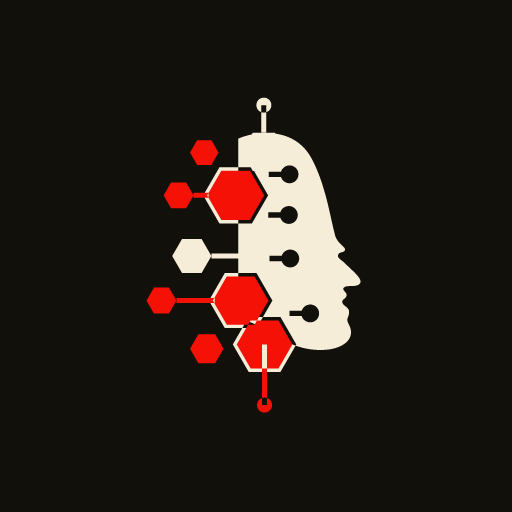
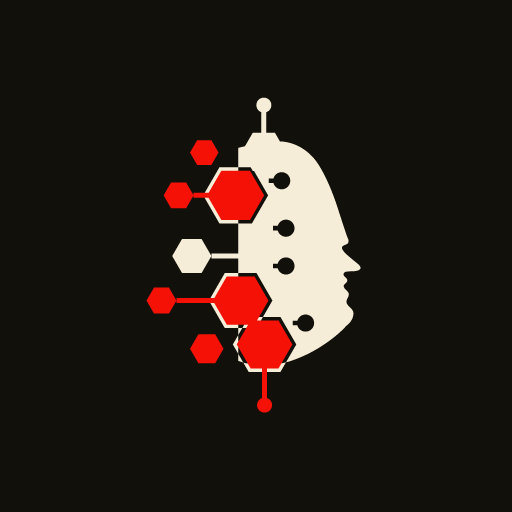
Publish site - host https://plus-magnificent-citizen-telescope.trycloudflare.com (2026-08-10T12:58:04Z)

diff --git a/app.html b/app.html
@@ -99,7 +99,7 @@ button { font-family: var(--body); cursor: pointer; }
   border-bottom: 1px solid var(--line);
 }
 /* The base wordmark stays block-level: other surfaces still render the
-   old three-piece 'Peer' markup, and a flex container splits it apart. The
+   old three-piece wordmark markup, and a flex container splits it apart. The
    insignia lockup applies only where the insignia markup exists (geek). */
 .wordmark { font-family: var(--display); font-weight: 700; text-transform: uppercase; font-size: 24px; margin: 0; letter-spacing: 0.04em; }
 .wordmark em { font-style: normal; color: var(--ember); }
@@ -1502,7 +1502,7 @@ button, .btn { touch-action: manipulation; }
     installPrompt = null;
     var c = document.querySelector('.a2hs');
     if (c) c.remove();
-    toast('Installed. Peer now opens full-screen from your home screen.');
+    toast('Installed. Ender Net now opens full-screen from your home screen.');
   });
 
   /**
@@ -1550,7 +1550,7 @@ button, .btn { touch-action: manipulation; }
         card.remove();
       } }));
       var card = h('div', { class: 'a2hs' },
-        h('b', { text: 'Install Peer on this ' + (/Android|iP(hone|od)/.test(ua) ? 'phone' : 'device') }),
+        h('b', { text: 'Install Ender Net on this ' + (/Android|iP(hone|od)/.test(ua) ? 'phone' : 'device') }),
         h('div', { text: body }),
         row);
       document.body.appendChild(card);
@@ -1904,16 +1904,17 @@ button, .btn { touch-action: manipulation; }
   /**
    * The mark, drawn inline rather than set as a CSS background image.
    *
-   * The face and the ink nodes are `currentColor`, so the logo follows the
-   * theme by itself — the insignia this replaced hard-coded its colours and
-   * needed a separate copy per theme block to stay visible.
+   * The head and the ink nodes are ONE nonzero path, so the crown node and its
+   * stem merge into the skull instead of sitting on top of it, and the ports
+   * are real holes rather than painted discs — which is what lets the same
+   * drawing sit on a light page, a dark page and a home screen. `currentColor`
+   * means it follows the theme; the insignia this replaced hard-coded its
+   * colours and needed a copy per theme block to stay visible.
    */
-  var MARK_FACE = 'M250 116C288 100 330 96 366 104C408 113 438 138 456 172C476 209 490 253 502 302C510 336 516 366 522 388C527 404 538 412 546 420C552 426 550 432 542 434C534 436 530 438 530 445C530 452 540 456 550 466C566 482 588 500 592 512C596 522 588 528 574 529C562 530 552 528 546 534C540 541 556 547 554 556C552 566 540 566 542 575C544 585 560 588 561 601C562 614 552 620 558 632C564 645 570 656 564 672C556 692 528 706 494 708C452 711 408 700 374 678C340 656 300 636 272 626L250 622ZM336.0 208.5L370.2 208.5L370.9 206.4L371.8 204.4L373.0 202.5L374.2 200.7L375.7 199.0L377.3 197.4L379.0 196.0L380.8 194.8L382.7 193.7L384.7 192.8L386.8 192.1L389.0 191.5L391.2 191.2L393.4 191.0L395.6 191.1L397.8 191.3L400.0 191.7L402.1 192.3L404.2 193.2L406.1 194.1L408.0 195.3L409.8 196.6L411.5 198.1L413.0 199.7L414.3 201.5L415.5 203.3L416.6 205.3L417.4 207.3L418.1 209.4L418.6 211.6L418.9 213.8L419.0 216.0L418.9 218.2L418.6 220.4L418.1 222.6L417.4 224.7L416.6 226.7L415.5 228.7L414.3 230.5L413.0 232.3L411.5 233.9L409.8 235.4L408.0 236.7L406.1 237.9L404.2 238.8L402.1 239.7L400.0 240.3L397.8 240.7L395.6 240.9L393.4 241.0L391.2 240.8L389.0 240.5L386.8 239.9L384.7 239.2L382.7 238.3L380.8 237.2L379.0 236.0L377.3 234.6L375.7 233.0L374.2 231.3L373.0 229.5L371.8 227.6L370.9 225.6L370.2 223.5L336.0 223.5ZM334.0 322.5L368.2 322.5L368.9 320.4L369.8 318.4L371.0 316.5L372.2 314.7L373.7 313.0L375.3 311.4L377.0 310.0L378.8 308.8L380.7 307.7L382.7 306.8L384.8 306.1L387.0 305.5L389.2 305.2L391.4 305.0L393.6 305.1L395.8 305.3L398.0 305.7L400.1 306.3L402.2 307.2L404.1 308.1L406.0 309.3L407.8 310.6L409.5 312.1L411.0 313.7L412.3 315.5L413.5 317.3L414.6 319.3L415.4 321.3L416.1 323.4L416.6 325.6L416.9 327.8L417.0 330.0L416.9 332.2L416.6 334.4L416.1 336.6L415.4 338.7L414.6 340.7L413.5 342.7L412.3 344.5L411.0 346.3L409.5 347.9L407.8 349.4L406.0 350.7L404.1 351.9L402.2 352.8L400.1 353.7L398.0 354.3L395.8 354.7L393.6 354.9L391.4 355.0L389.2 354.8L387.0 354.5L384.8 353.9L382.7 353.2L380.7 352.3L378.8 351.2L377.0 350.0L375.3 348.6L373.7 347.0L372.2 345.3L371.0 343.5L369.8 341.6L368.9 339.6L368.2 337.5L334.0 337.5ZM338.0 444.5L372.2 444.5L372.9 442.4L373.8 440.4L375.0 438.5L376.2 436.7L377.7 435.0L379.3 433.4L381.0 432.0L382.8 430.8L384.7 429.7L386.7 428.8L388.8 428.1L391.0 427.5L393.2 427.2L395.4 427.0L397.6 427.1L399.8 427.3L402.0 427.7L404.1 428.3L406.2 429.2L408.1 430.1L410.0 431.3L411.8 432.6L413.5 434.1L415.0 435.7L416.3 437.5L417.5 439.3L418.6 441.3L419.4 443.3L420.1 445.4L420.6 447.6L420.9 449.8L421.0 452.0L420.9 454.2L420.6 456.4L420.1 458.6L419.4 460.7L418.6 462.7L417.5 464.7L416.3 466.5L415.0 468.3L413.5 469.9L411.8 471.4L410.0 472.7L408.1 473.9L406.2 474.8L404.1 475.7L402.0 476.3L399.8 476.7L397.6 476.9L395.4 477.0L393.2 476.8L391.0 476.5L388.8 475.9L386.7 475.2L384.7 474.3L382.8 473.2L381.0 472.0L379.3 470.6L377.7 469.0L376.2 467.3L375.0 465.5L373.8 463.6L372.9 461.6L372.2 459.5L338.0 459.5ZM394.0 598.5L428.2 598.5L428.9 596.4L429.8 594.4L431.0 592.5L432.2 590.7L433.7 589.0L435.3 587.4L437.0 586.0L438.8 584.8L440.7 583.7L442.7 582.8L444.8 582.1L447.0 581.5L449.2 581.2L451.4 581.0L453.6 581.1L455.8 581.3L458.0 581.7L460.1 582.3L462.2 583.2L464.1 584.1L466.0 585.3L467.8 586.6L469.5 588.1L471.0 589.7L472.3 591.5L473.5 593.3L474.6 595.3L475.4 597.3L476.1 599.4L476.6 601.6L476.9 603.8L477.0 606.0L476.9 608.2L476.6 610.4L476.1 612.6L475.4 614.7L474.6 616.7L473.5 618.7L472.3 620.5L471.0 622.3L469.5 623.9L467.8 625.4L466.0 626.7L464.1 627.9L462.2 628.8L460.1 629.7L458.0 630.3L455.8 630.7L453.6 630.9L451.4 631.0L449.2 630.8L447.0 630.5L444.8 629.9L442.7 629.2L440.7 628.3L438.8 627.2L437.0 626.0L435.3 624.6L433.7 623.0L432.2 621.3L431.0 619.5L429.8 617.6L428.9 615.6L428.2 613.5L394.0 613.5ZM334.0 275.0L288.5 353.8L197.5 353.8L152.0 275.0L197.5 196.2L288.5 196.2ZM346.0 570.0L301.5 647.1L212.5 647.1L168.0 570.0L212.5 492.9L301.5 492.9ZM413.0 693.0L368.5 770.1L279.5 770.1L235.0 693.0L279.5 615.9L368.5 615.9Z';
-  var MARK_INK = 'M322.00 1.00C333.60 1.00 343.00 10.40 343.00 22.00C343.00 33.60 333.60 43.00 322.00 43.00C310.40 43.00 301.00 33.60 301.00 22.00C301.00 10.40 310.40 1.00 322.00 1.00ZM315 22L329 22L329 153L315 153ZM384.0 153.0L353.0 206.7L291.0 206.7L260.0 153.0L291.0 99.3L353.0 99.3ZM175 438L267 438L267 452L175 452ZM175.0 445.0L147.5 492.6L92.5 492.6L65.0 445.0L92.5 397.4L147.5 397.4Z';
+  var MARK_INK = 'M250 142C278 134 316 128 354 124C404 120 450 148 476 190C500 228 520 280 534 326C544 356 550 376 556 392C562 403 560 410 552 413C544 416 541 417 541 423C544 434 558 444 572 456C584 466 595 473 593 480C590 487 576 488 563 488C555 489 549 488 546 494C542 501 556 506 556 513C556 521 545 523 546 530C547 539 559 543 560 551C561 561 552 566 554 576C557 587 572 592 573 604C574 618 566 631 553 641C534 662 512 679 488 695C458 715 424 731 392 741C352 753 300 751 268 745L250 739ZM322.00 1.00C333.60 1.00 343.00 10.40 343.00 22.00C343.00 33.60 333.60 43.00 322.00 43.00C310.40 43.00 301.00 33.60 301.00 22.00C301.00 10.40 310.40 1.00 322.00 1.00ZM315 22L329 22L329 153L315 153ZM384.0 153.0L353.0 206.7L291.0 206.7L260.0 153.0L291.0 99.3L353.0 99.3ZM175 438L267 438L267 452L175 452ZM175.0 445.0L147.5 492.6L92.5 492.6L65.0 445.0L92.5 397.4L147.5 397.4ZM336.0 240.5L348.9 240.5L349.6 242.5L350.4 244.5L351.5 246.4L352.6 248.2L354.0 249.9L355.5 251.4L357.1 252.8L358.9 254.1L360.7 255.2L362.6 256.1L364.7 256.8L366.7 257.4L368.8 257.8L371.0 258.0L373.1 258.0L375.3 257.8L377.4 257.4L379.5 256.8L381.5 256.0L383.4 255.1L385.3 254.0L387.0 252.7L388.6 251.3L390.1 249.8L391.4 248.1L392.6 246.3L393.6 244.4L394.5 242.4L395.1 240.4L395.6 238.3L395.9 236.1L396.0 234.0L395.9 231.9L395.6 229.7L395.1 227.6L394.5 225.6L393.6 223.6L392.6 221.7L391.4 219.9L390.1 218.2L388.6 216.7L387.0 215.3L385.3 214.0L383.4 212.9L381.5 212.0L379.5 211.2L377.4 210.6L375.3 210.2L373.1 210.0L371.0 210.0L368.8 210.2L366.7 210.6L364.7 211.2L362.6 211.9L360.7 212.8L358.9 213.9L357.1 215.2L355.5 216.6L354.0 218.1L352.6 219.8L351.5 221.6L350.4 223.5L349.6 225.5L348.9 227.5L336.0 227.5ZM348.0 373.5L360.9 373.5L361.6 375.5L362.4 377.5L363.5 379.4L364.6 381.2L366.0 382.9L367.5 384.4L369.1 385.8L370.9 387.1L372.7 388.2L374.6 389.1L376.7 389.8L378.7 390.4L380.8 390.8L383.0 391.0L385.1 391.0L387.3 390.8L389.4 390.4L391.5 389.8L393.5 389.0L395.4 388.1L397.3 387.0L399.0 385.7L400.6 384.3L402.1 382.8L403.4 381.1L404.6 379.3L405.6 377.4L406.5 375.4L407.1 373.4L407.6 371.3L407.9 369.1L408.0 367.0L407.9 364.9L407.6 362.7L407.1 360.6L406.5 358.6L405.6 356.6L404.6 354.7L403.4 352.9L402.1 351.2L400.6 349.7L399.0 348.3L397.3 347.0L395.4 345.9L393.5 345.0L391.5 344.2L389.4 343.6L387.3 343.2L385.1 343.0L383.0 343.0L380.8 343.2L378.7 343.6L376.7 344.2L374.6 344.9L372.7 345.8L370.9 346.9L369.1 348.2L367.5 349.6L366.0 351.1L364.6 352.8L363.5 354.6L362.4 356.5L361.6 358.5L360.9 360.5L348.0 360.5ZM348.0 479.5L360.9 479.5L361.6 481.5L362.4 483.5L363.5 485.4L364.6 487.2L366.0 488.9L367.5 490.4L369.1 491.8L370.9 493.1L372.7 494.2L374.6 495.1L376.7 495.8L378.7 496.4L380.8 496.8L383.0 497.0L385.1 497.0L387.3 496.8L389.4 496.4L391.5 495.8L393.5 495.0L395.4 494.1L397.3 493.0L399.0 491.7L400.6 490.3L402.1 488.8L403.4 487.1L404.6 485.3L405.6 483.4L406.5 481.4L407.1 479.4L407.6 477.3L407.9 475.1L408.0 473.0L407.9 470.9L407.6 468.7L407.1 466.6L406.5 464.6L405.6 462.6L404.6 460.7L403.4 458.9L402.1 457.2L400.6 455.7L399.0 454.3L397.3 453.0L395.4 451.9L393.5 451.0L391.5 450.2L389.4 449.6L387.3 449.2L385.1 449.0L383.0 449.0L380.8 449.2L378.7 449.6L376.7 450.2L374.6 450.9L372.7 451.8L370.9 452.9L369.1 454.2L367.5 455.6L366.0 457.1L364.6 458.8L363.5 460.6L362.4 462.5L361.6 464.5L360.9 466.5L348.0 466.5ZM403.0 639.5L415.9 639.5L416.6 641.5L417.4 643.5L418.5 645.4L419.6 647.2L421.0 648.9L422.5 650.4L424.1 651.8L425.9 653.1L427.7 654.2L429.6 655.1L431.7 655.8L433.7 656.4L435.8 656.8L438.0 657.0L440.1 657.0L442.3 656.8L444.4 656.4L446.5 655.8L448.5 655.0L450.4 654.1L452.3 653.0L454.0 651.7L455.6 650.3L457.1 648.8L458.4 647.1L459.6 645.3L460.6 643.4L461.5 641.4L462.1 639.4L462.6 637.3L462.9 635.1L463.0 633.0L462.9 630.9L462.6 628.7L462.1 626.6L461.5 624.6L460.6 622.6L459.6 620.7L458.4 618.9L457.1 617.2L455.6 615.7L454.0 614.3L452.3 613.0L450.4 611.9L448.5 611.0L446.5 610.2L444.4 609.6L442.3 609.2L440.1 609.0L438.0 609.0L435.8 609.2L433.7 609.6L431.7 610.2L429.6 610.9L427.7 611.8L425.9 612.9L424.1 614.2L422.5 615.6L421.0 617.1L419.6 618.8L418.5 620.6L417.4 622.5L416.6 624.5L415.9 626.5L403.0 626.5ZM288.5 196.2L197.5 196.2L152.0 275.0L197.5 353.8L288.5 353.8L334.0 275.0ZM301.5 492.9L212.5 492.9L168.0 570.0L212.5 647.1L301.5 647.1L346.0 570.0ZM368.5 615.9L279.5 615.9L235.0 693.0L279.5 770.1L368.5 770.1L413.0 693.0Z';
   var MARK_RED = 'M195.0 155.0L175.0 189.6L135.0 189.6L115.0 155.0L135.0 120.4L175.0 120.4ZM125 268L167 268L167 282L125 282ZM125.0 275.0L104.0 311.4L62.0 311.4L41.0 275.0L62.0 238.6L104.0 238.6ZM323.0 275.0L283.0 344.3L203.0 344.3L163.0 275.0L203.0 205.7L283.0 205.7ZM77 563L184 563L184 577L77 577ZM77.0 570.0L56.0 606.4L14.0 606.4L-7.0 570.0L14.0 533.6L56.0 533.6ZM335.0 570.0L296.0 637.5L218.0 637.5L179.0 570.0L218.0 502.5L296.0 502.5ZM209.0 705.0L185.5 745.7L138.5 745.7L115.0 705.0L138.5 664.3L185.5 664.3ZM402.0 693.0L363.0 760.5L285.0 760.5L246.0 693.0L285.0 625.5L363.0 625.5ZM317 693L331 693L331 863L317 863ZM324.00 842.00C335.60 842.00 345.00 851.40 345.00 863.00C345.00 874.60 335.60 884.00 324.00 884.00C312.40 884.00 303.00 874.60 303.00 863.00C303.00 851.40 312.40 842.00 324.00 842.00Z';
   function brandmark() {
     var s = sv('svg', { viewBox: '-10 0 620 890', class: 'brandmark', 'aria-hidden': 'true' });
-    s.appendChild(sv('path', { fill: 'currentColor', 'fill-rule': 'evenodd', d: MARK_FACE }));
     s.appendChild(sv('path', { fill: 'currentColor', d: MARK_INK }));
     s.appendChild(sv('path', { fill: 'var(--logo-red)', d: MARK_RED }));
     return s;

diff --git a/index.html b/index.html
@@ -8,7 +8,7 @@
 <link rel="icon" href="icons/favicon-32.png" sizes="32x32">
 <link rel="apple-touch-icon" href="icons/icon-180.png">
 <meta name="apple-mobile-web-app-capable" content="yes">
-<meta name="apple-mobile-web-app-title" content="Peer">
+<meta name="apple-mobile-web-app-title" content="Ender Net">
 
 <title>Ender Net — a social network whose feed is mathematics you can check</title>
 <meta name="description" content="A social network where posting costs something and the feed ranking is a published formula you can recompute yourself. Open source, free, runs in your browser.">
